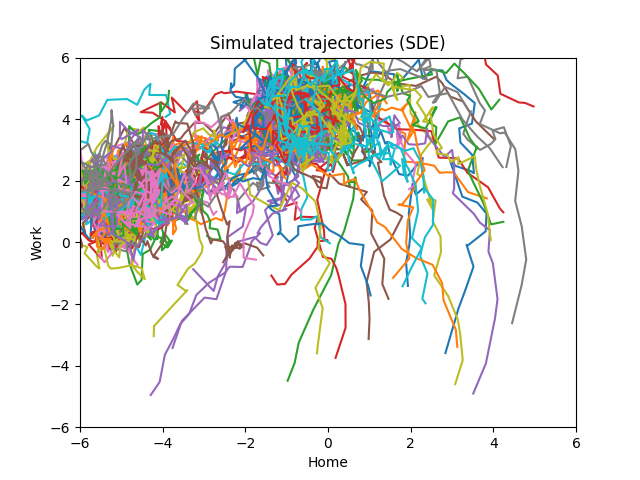
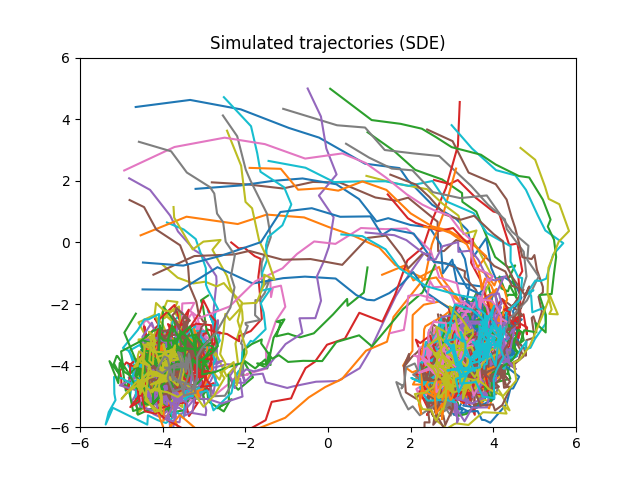
readme update, typo in startup, removed labels in plots when simulation

diff --git a/VarCT_startup.py b/VarCT_startup.py
@@ -24,8 +24,8 @@ parser.add_argument("-td", "--trainingdata", help="Percentage of panel data used
 parser.add_argument("-li", "--learnintercepts", help="Learn intercepts", default=False, action="store_true")
 parser.add_argument("-all", "--learn_all", help="Learn intercepts for every subject in panel data", default=False, action="store_true")
 parser.add_argument("-sim", "--simulate", help="Simulate data", default=False, action="store_true")
-parser.add_argument("-n", "--num_ivs", help="Simulate many trajectories", default="50", type=int)
-parser.add_argument("-t", "--timehorizon", help="Simulate time horizon", default="15", type=int)
+parser.add_argument("-n", "--num_ivs", help="Simulate how many trajectories", default="50", type=int)
+parser.add_argument("-t", "--timehorizon", help="Simulate which time horizon", default="15", type=int)
 parser.add_argument("-ni", "--num_ints", help="Number of intercept classes in simulation", type=int)
 parser.add_argument("-np", "--num_plots", help="Number of trajectories plotted", default="50", type=int)
 parser.add_argument("-ex", "--exportdata", help="Export simulated data", default=False, action="store_true")

diff --git a/VarCT_functions.py b/VarCT_functions.py
@@ -166,8 +166,9 @@ def plot_trajectoriesA(A, rhs, **kwargs):
                 plt.plot(*x, marker='x', color='k')
 
     # Labels corresponding to the concrete panel study setting
-    plt.xlabel('Home')
-    plt.ylabel('Work')
+    if not args.simulate:
+        plt.xlabel('Home')
+        plt.ylabel('Work')
     
     if 'title' in kwargs:
         plt.title(kwargs['title'])
@@ -189,8 +190,9 @@ def plot_simSDEtrajectories(**kwargs):
         plt.plot(trajectories_sim[i].T[0],trajectories_sim[i].T[1])
 
     # Labels corresponding to the concrete panel study setting
-    plt.xlabel('Home')
-    plt.ylabel('Work')
+    if not args.simulate:
+        plt.xlabel('Home')
+        plt.ylabel('Work')
     
     if 'title' in kwargs:
         plt.title(kwargs['title'])

diff --git a/README.md b/README.md
@@ -1,4 +1,14 @@
-# A Variational Algorithm for Continuous-Time Modeling
+<h1 align="center"">VarCT: A Variational Algorithm for Continuous-Time
+Modeling<h1>
+
+<p align="center">
+  <img src="pics/interceptsNoLearn_SDE.png" alt="Randomly simulated SDE trajectories" width="30%"/>
+  &nbsp;
+  &nbsp;
+  &nbsp;
+  <img src="pics/interceptsNoLearn_result.png" alt="Learned trajectories" width="30%"/>
+</p>
+
 This is the repository for a python implementation of the algorithm presented
 in the book chapter 
 ```
@@ -9,23 +19,30 @@ The implementation was written by Hannes
 Meinlschmidt to whom questions and comments are welcome at *[lastname]
 at math.fau.de*. 
 
-See [below](#how-to-reproduce-the-results-from-the-book-chapter) for instructions regarding reproducing the results from the book chapter.
+See [below](#how-to-reproduce-the-results-from-the-book-chapter) for
+instructions regarding reproducing the results from the book
+chapter. Otherwise, feel free to play with the `simulate`
+[CLI](#command-line-interface-options) and various settings to generate a data set. 
 
 ## What the algorithm does
-In a nutshell: It is an optimization
+It is an optimization
 algorithm which, given sets of data, each
 consisting of a number of points in space, determines a quadratic
 matrix driving a linear ordinary differential equation such that the trajectories
 generated by the differential equation match the points in space in a
-least-squares optimal way over the whole data set. It can also optimize for
+least-squares optimal way over the whole data set. 
+
+It can also optimize for
 so-called intercepts, that is, forcing functions in the differential
-equations. The optimizer used is a BFGS algorithm from `scipy` which is fed
+equations. 
+
+The optimizer used is a BFGS algorithm from `scipy` which is fed
 with a gradient for the least-squares objective function which was calculated
 analytically by adjoint calculus. 
 
 Details can be found in the book chapter or in forthcoming publications.
 
-## How the reproduce the results from the book chapter
+## How to reproduce the results from the book chapter
 > [!IMPORTANT]
 > In the book chapter, we applied the algorithm to a particular set of data from
 > the [German Socio-Economic Panel (SOEP)](https://www.diw.de/en/diw_01.c.615551.en/research_infrastructure__socio-economic_panel__soep.html)
@@ -34,12 +51,11 @@ Details can be found in the book chapter or in forthcoming publications.
 > scientific research institution, but unfortunately, per the contract with DIW
 > Berlin I am not allowed to supply the data file directly within this
 > repository, so you need to request access to the SOEP data yourself. 
->
-> That being
-> said, in the **data_processed** folder there is a python snippet which processes the rather
-> unwieldly large SOEP **pl.csv** file to filter only the relevant columns for our
-> application case. The algorithm then works on the thus produced
-> **pl_filtered.csv** file.
+
+That being said, in the **data_processed** folder there is a python snippet
+which processes the rather unwieldly large SOEP **pl.csv** file to filter only
+the relevant columns for our application case. The algorithm then works on the
+thus produced **pl_filtered.csv** file.
 
 Once you have the **pl_filtered.csv** file in the **data_processed** folder, you can reproduce the
 results in the book chapter with
@@ -54,13 +70,18 @@ python VarCT_optimize.py -td 10
 ```
 to select **10%** of participants randomly.
 
+## Command Line Interface options
+
+ * 
+
 ## Requirements
 The code was written for and tested with **python 3.10** and I do not give any
 guarantees that it works on other versions.
  
-> [!WARNING]
-> A word of warning: I have tried to put reasonable comments in the code but it
-> is an organically grown code. Probably there are several rather inefficient and
-> inelegant solutions in there, not to speak of possible bugs. However, the main
+> [!WARNING] A word of warning: I have tried to put reasonable comments in the
+> code but it is an organically grown code and I am not a python
+> professional. Probably there are several rather inefficient and inelegant
+> solutions in there, not to speak of possible bugs. However, the main
 > functionality should definitely be correct. Eventually I would consider
-> rewriting large aspects of the code to facilitate usage also on other examples.
+> rewriting large aspects of the code, especially in order to facilitate usage also on other
+> data sets.
